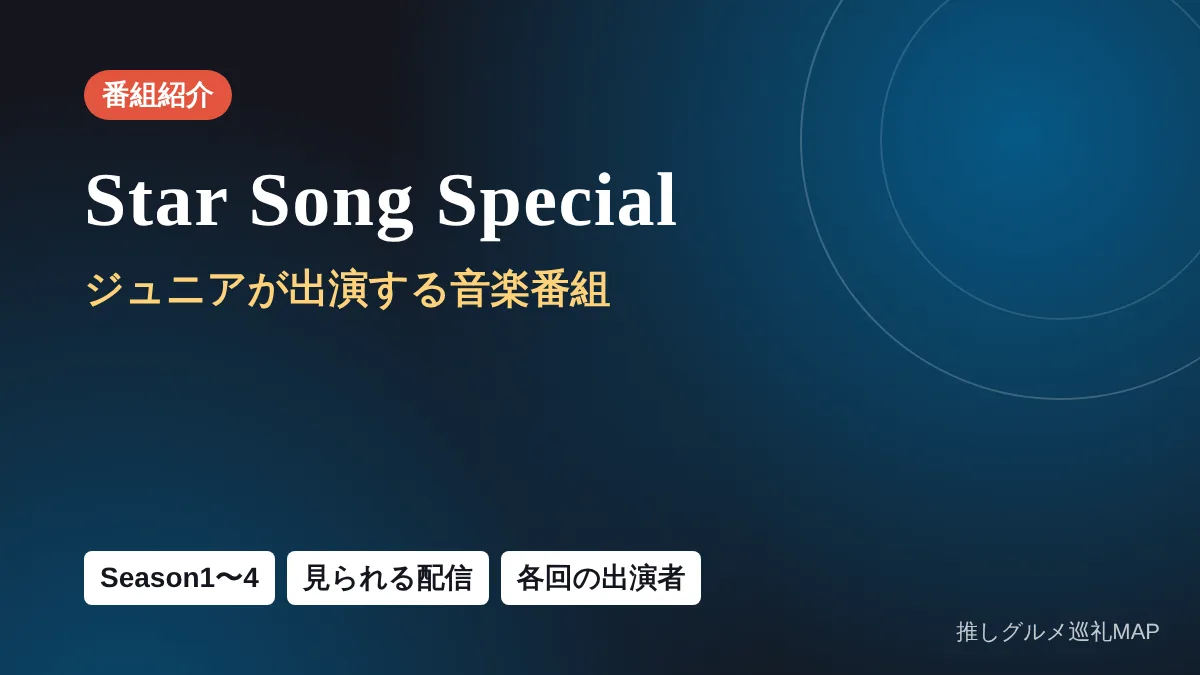
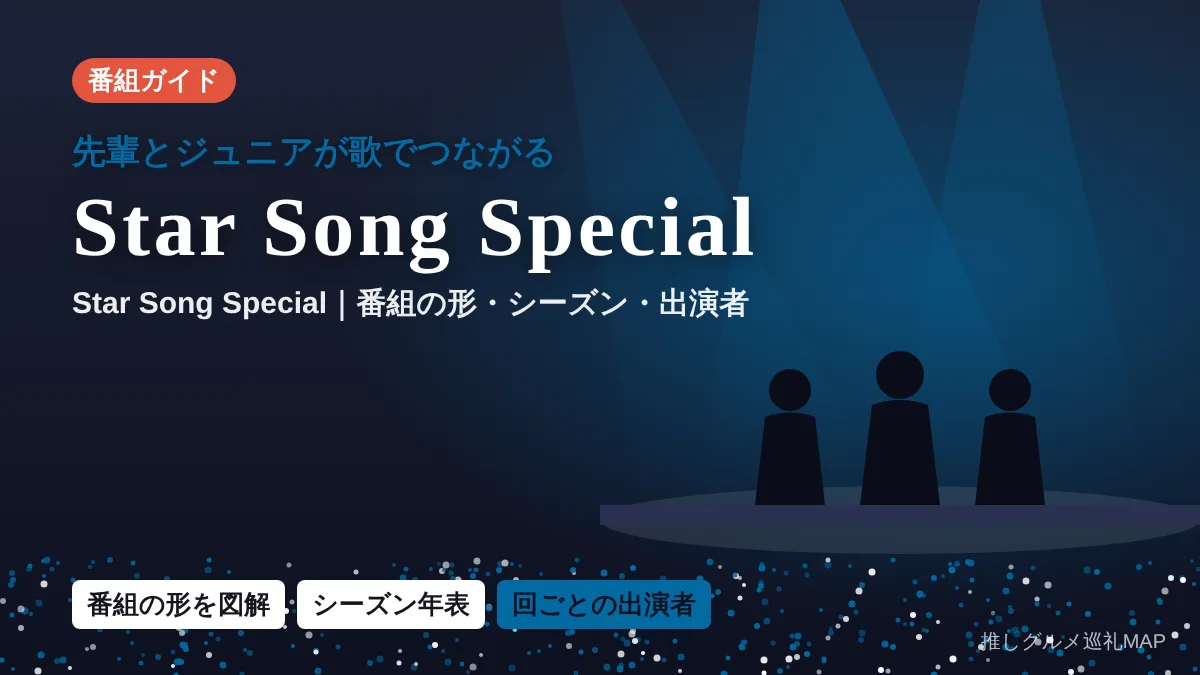
メンバー・グループ・番組紹介7本を新しい型に（本人の言葉・年表図・動画・食）、表は1行で横スクロール、見出し画像の文字の大きさを名前の長さで調整
Claude-Session: https://claude.ai/code/session_01MseDnBjkSwwRYQ7pFiJZVF

diff --git a/_guides/bandzai-profile.html b/_guides/bandzai-profile.html
@@ -103,7 +103,7 @@ faq:
 <p>読みは、ジュニア公式サイトのローマ字表記（Ryo Hashimoto など）をもとにしています。矢花黎さんはバンドリーダーとしてグループの音楽面を引っ張っています（ORICON NEWS）。本髙克樹さんは、早稲田大学大学院 創造理工学研究科 経営システム工学専攻の博士後期課程を修了し、2026年3月26日に博士（工学）の学位を受けました。STARTO ENTERTAINMENT所属のタレントで初めての博士号です（デイリースポーツ）。</p>
 
 <h2>結成から日本武道館までの歩み</h2>
-<figure class="fig"><img src="/assets/img/guide/bandzai-profile/timeline.svg" alt="B&amp;ZAIの歩みの年表：2025年2月16日にB&amp;ZAIを結成、4月2日に初の単独ライブを発表しメンバーカラーが決まる、5月8日に『Star Song Special』に初登場、6月25日・26日に初の単独ライブ「First Beat」をぴあアリーナMMで開催、8月17日にSUMMER SONIC 2025に出演、2026年にホールツアー「ROCK'N'DOL」で全国10か所29公演・8万3200人を動員、2月27日に日本武道館公演をサプライズ発表、3月26日に本髙克樹が博士（工学）に、5月8日・9日に日本武道館で単独公演、7月25日から夏のライブ「Summer Beat」全17公演、9月にレギュラーラジオ番組が決定" width="420" height="900" loading="lazy" decoding="async"><figcaption>ジュニア公式サイトの発表と報道（出典は記事の冒頭）をもとに作図</figcaption></figure>
+<figure class="fig"><img src="/assets/img/guide/bandzai-profile/timeline.svg" alt="B&amp;ZAIの歩みの年表：2025年2月16日にB&amp;ZAIを結成、4月2日に初の単独ライブを発表しメンバーカラーが決まる、5月8日に『Star Song Special』に初登場、6月25日・26日に初の単独ライブ「First Beat」をぴあアリーナMMで開催、8月17日にSUMMER SONIC 2025に出演、2026年にホールツアー「ROCK'N'DOL」で全国10か所29公演・8万3200人を動員、2月27日に日本武道館公演をサプライズ発表、3月26日に本髙克樹が博士（工学）に、5月8日・9日に日本武道館で単独公演、7月25日から夏のライブ「Summer Beat」全17公演、9月にレギュラーラジオ番組が決定" width="420" height="1108" loading="lazy" decoding="async"><figcaption>ジュニア公式サイトの発表と報道（出典は記事の冒頭）をもとに作図</figcaption></figure>
 
 <h3>8つの音が重なった日</h3>
 <p>2025年2月16日、STARTO ENTERTAINMENTは、HiHi Jets・美 少年・7 MEN 侍・少年忍者のメンバーを入れ替え、ACEes・KEY TO LIT・B&amp;ZAIの3組を結成したと発表しました。B&amp;ZAIは、元HiHi Jetsの橋本涼さん、元7 MEN 侍の4人、元少年忍者の3人。結成のコメントでは「ダンスや歌、バンド、アクロバット、先輩方から継承してきたさまざまなパフォーマンス」を通して、アイドルグループとしての道を切り拓くと宣言しました。</p>

diff --git a/_guides/shonen-ninja-profile.html b/_guides/shonen-ninja-profile.html
@@ -82,7 +82,7 @@ faq:
 <p>人数は中日スポーツとJ-CAST ニュース、31公演はモデルプレス、29公演は中日スポーツの報道によります。</p>
 
 <h2>年表で見る少年忍者の歩み</h2>
-<figure class="fig"><img src="/assets/img/guide/shonen-ninja-profile/timeline.svg" alt="少年忍者の歩みの年表：2018年6月に「ちびっこ忍者」として14人で結成、2018年8月にイベントで「少年忍者」に改名、2019年に25人の大所帯に、2020年11月に初のオリジナル曲「太陽の笑顔」をJohnnys' Jr. Island FESで披露、2022年6月から川﨑皇輝をリーダーとする21人体制に、2023年5月に初のグループ単独座長公演『俺たちのBANG!!!』を東京・大阪・名古屋で31公演、2024年8月から9月に21人の単独公演『PASSION!!』をTOKYO DOME CITY HALLで開催、2025年2月16日のジュニア再編で4人がACEes・B&amp;ZAIへ移り17人で継続、2025年8月に16人で夏のライブ「This is 忍者」をKanadevia Hallで29公演、2025年11月30日にグループでの活動を終える、2026年6月26日に元メンバー4人が西村拓哉とともにHowzitを結成" width="420" height="900" loading="lazy" decoding="async"><figcaption>公式発表・公式YouTube・報道（出典は記事の冒頭）をもとに作図</figcaption></figure>
+<figure class="fig"><img src="/assets/img/guide/shonen-ninja-profile/timeline.svg" alt="少年忍者の歩みの年表：2018年6月に「ちびっこ忍者」として14人で結成、2018年8月にイベントで「少年忍者」に改名、2019年に25人の大所帯に、2020年11月に初のオリジナル曲「太陽の笑顔」をJohnnys' Jr. Island FESで披露、2022年6月から川﨑皇輝をリーダーとする21人体制に、2023年5月に初のグループ単独座長公演『俺たちのBANG!!!』を東京・大阪・名古屋で31公演、2024年8月から9月に21人の単独公演『PASSION!!』をTOKYO DOME CITY HALLで開催、2025年2月16日のジュニア再編で4人がACEes・B&amp;ZAIへ移り17人で継続、2025年8月に16人で夏のライブ「This is 忍者」をKanadevia Hallで29公演、2025年11月30日にグループでの活動を終える、2026年6月26日に元メンバー4人が西村拓哉とともにHowzitを結成" width="420" height="988" loading="lazy" decoding="async"><figcaption>公式発表・公式YouTube・報道（出典は記事の冒頭）をもとに作図</figcaption></figure>
 
 <h3>14人の「ちびっこ忍者」から</h3>
 <p>2018年6月、「ちびっこ忍者」として14人で結成。同じ年の8月のイベントで「少年忍者」に名前を変え、2019年には25人に増えました（J-CAST ニュース・中日スポーツ）。2020年11月の「Johnnys' Jr. Island FES」では、結成2年で初めてのオリジナル曲「太陽の笑顔」を披露しています（ジュニアCHANNELの動画の説明文より）。</p>

diff --git a/_guides/star-song-special.html b/_guides/star-song-special.html
@@ -86,7 +86,7 @@ faq:
 <p>39回と21組は、番組公式サイトの出演者欄と、公式YouTubeでの配信日の告知をもとに数えました。</p>
 
 <h2>シーズンの歩み</h2>
-<figure class="fig"><img src="/assets/img/guide/star-song-special/timeline.svg" alt="Star Song Specialの歩みの年表：2025年2月に新しい音楽番組の制作を発表、2月27日にSeason1の配信スタート（初回は堂本光一さんと増田貴久さん）、7月31日にSeason1最終回（少年忍者の16人とSpeciaLが出演）、10月2日にSeason2の配信スタート（Hey! Say! JUMPとKEY TO LITが番組初登場）、2026年3月5日にSeason2最終回、3月26日にSeason3がPrime Videoの独占配信でスタート、7月に番組のポッドキャストが始まる、9月3日にSeason3最終回（SixTONESがグループで番組初登場）、9月10日にSeason4の配信スタート（初回ゲストはSixTONES）" width="420" height="900" loading="lazy" decoding="async"><figcaption>番組公式サイトと報道（出典は記事の冒頭）をもとに作図</figcaption></figure>
+<figure class="fig"><img src="/assets/img/guide/star-song-special/timeline.svg" alt="Star Song Specialの歩みの年表：2025年2月に新しい音楽番組の制作を発表、2月27日にSeason1の配信スタート（初回は堂本光一さんと増田貴久さん）、7月31日にSeason1最終回（少年忍者の16人とSpeciaLが出演）、10月2日にSeason2の配信スタート（Hey! Say! JUMPとKEY TO LITが番組初登場）、2026年3月5日にSeason2最終回、3月26日にSeason3がPrime Videoの独占配信でスタート、7月に番組のポッドキャストが始まる、9月3日にSeason3最終回（SixTONESがグループで番組初登場）、9月10日にSeason4の配信スタート（初回ゲストはSixTONES）" width="420" height="852" loading="lazy" decoding="async"><figcaption>番組公式サイトと報道（出典は記事の冒頭）をもとに作図</figcaption></figure>
 
 <h3>Season1：先輩とジュニアの共演が始まる</h3>
 <p>2025年2月27日、Prime VideoとDMM TVで配信がスタート。初回は堂本光一さんがMCを務め、増田貴久さんが出演しました（モデルプレス）。全12回の最終回（7月31日）では、Hey! Say! JUMPの知念侑李さん・伊野尾慧さんと少年忍者がトークで対面。少年忍者は16人でNEWS「チャンカパーナ」などを披露しました（THE FIRST TIMES）。</p>

diff --git a/assets/css/app.css b/assets/css/app.css
@@ -798,3 +798,4 @@ a.badge { min-height: 32px; }
   .prose .pf-works { grid-template-columns: 1fr 1fr; }
   .pf-card__facts { grid-template-columns: repeat(3, 1fr); }
 }
+.pf .prose td, .prose .pf td { white-space: nowrap; }

diff --git a/scripts/profile_figures.py b/scripts/profile_figures.py
@@ -135,6 +135,8 @@ def thumb_html(d, n):
     import random
     rnd = random.Random(7)
     dots = ''.join(f'<circle cx="{rnd.randint(0, 1200)}" cy="{rnd.randint(560, 675)}" r="{rnd.choice([2, 2.5, 3, 3.5])}" fill="{c if rnd.random() < .7 else "#fff"}" opacity="{rnd.uniform(.5, 1):.2f}"/>' for _ in range(420))
+    nl = len(d['name'])
+    fs = 128 if nl <= 5 else 100 if nl <= 10 else 84
     k = int(t.get('people', 1))
     if k <= 1:
         people = (f'<g fill="#0a0c18"><circle cx="900" cy="378" r="30"/><path d="M866 412 Q900 398 934 412 L950 505 L850 505 Z"/><path d="M934 420 L990 360 L998 368 L948 440 Z"/></g>'
@@ -156,7 +158,7 @@ svg.bg{{position:absolute;inset:0}}
 .w{{position:absolute;left:72px;top:58px;right:420px}}
 .l{{display:inline-block;background:#e2553f;color:#fff;font-weight:700;font-size:26px;padding:5px 16px;border-radius:999px}}
 .k{{color:{c};font-weight:800;font-size:34px;margin-top:26px;text-shadow:0 2px 12px rgba(0,0,0,.5)}}
-h1{{color:#fff;font-family:{SERIF};font-weight:900;font-size:128px;line-height:1.1;margin-top:6px;letter-spacing:.04em;text-shadow:0 4px 24px rgba(0,0,0,.55)}}
+h1{{color:#fff;font-family:{SERIF};font-weight:900;font-size:{fs}px;line-height:1.1;margin-top:6px;letter-spacing:.04em;text-shadow:0 4px 24px rgba(0,0,0,.55)}}
 .s{{color:#fff;font-weight:700;font-size:30px;margin-top:10px;opacity:.92}}
 .c{{position:absolute;left:72px;bottom:46px;display:flex;gap:12px;flex-wrap:wrap;right:360px}}
 .c span{{background:#fff;color:#14161f;font-weight:800;font-size:26px;padding:7px 15px;border-radius:8px}}
